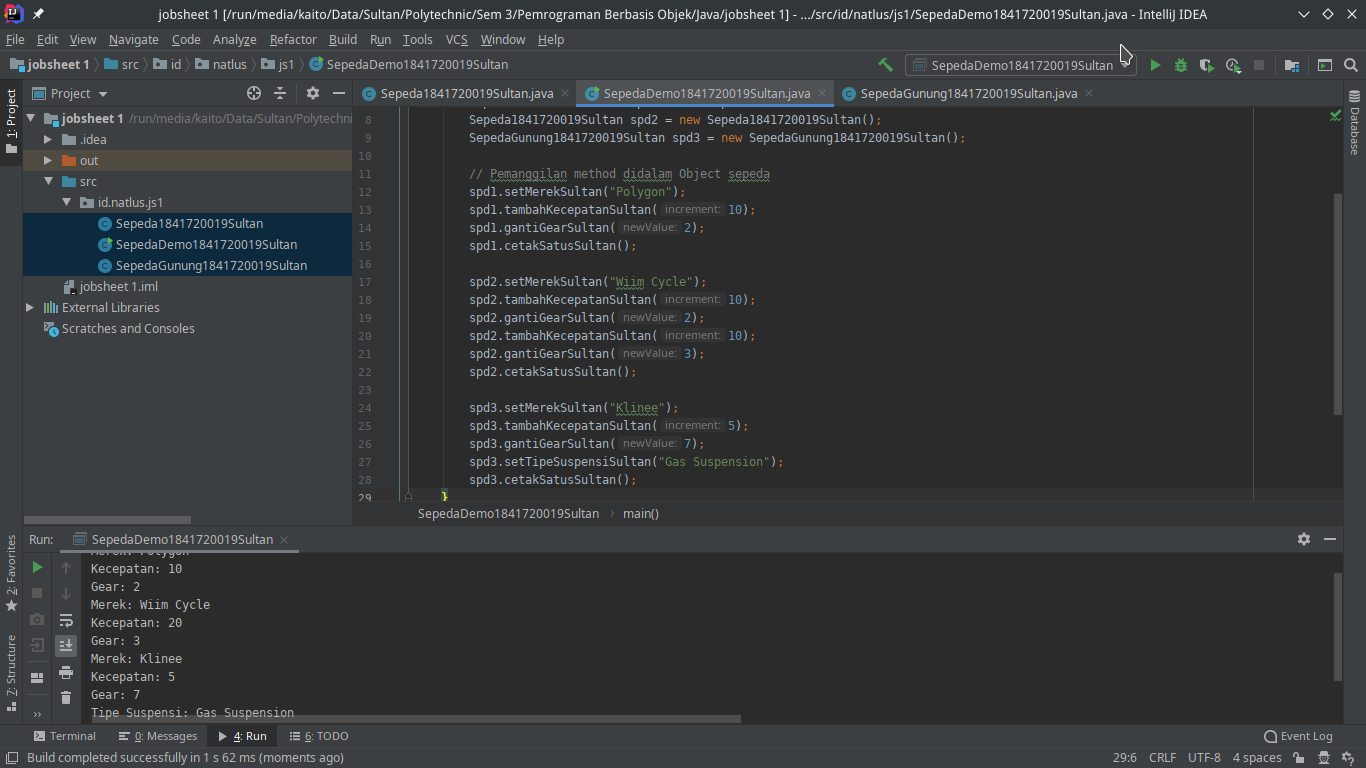
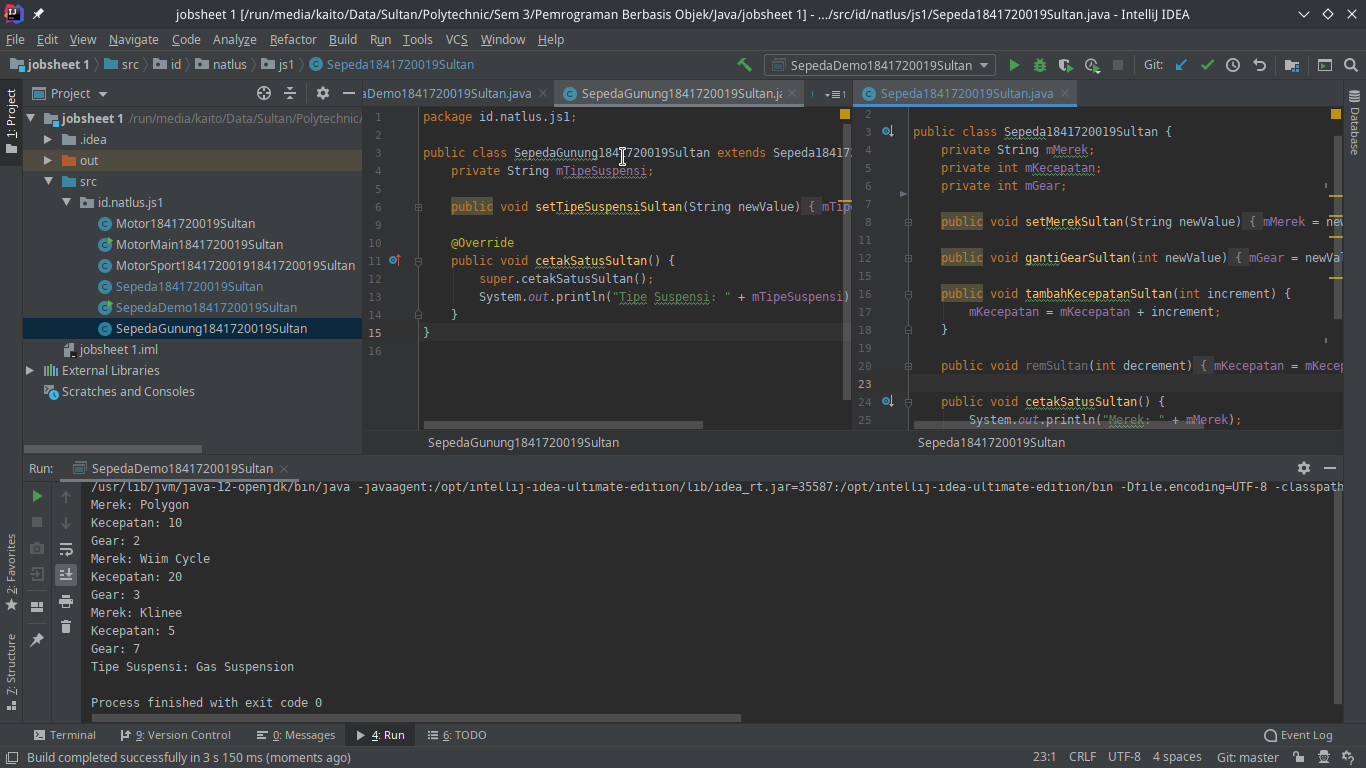
Change image, add percobaan 3

diff --git a/src/1_Pengantar_Konsep_PBO/SepedaDemo1841720019Sultan.java b/src/1_Pengantar_Konsep_PBO/SepedaDemo1841720019Sultan.java
@@ -7,6 +7,7 @@ public class SepedaDemo1841720019Sultan {
         Sepeda1841720019Sultan spd1 = new Sepeda1841720019Sultan();
         Sepeda1841720019Sultan spd2 = new Sepeda1841720019Sultan();
         SepedaGunung1841720019Sultan spd3 = new SepedaGunung1841720019Sultan();
+        SepedaGunungBalap1841720019Sultan spd4 = new SepedaGunungBalap1841720019Sultan();
 
         // Pemanggilan method didalam Object sepeda
         spd1.setMerekSultan("Polygon");
@@ -29,6 +30,16 @@ public class SepedaDemo1841720019Sultan {
         spd3.setTipeSuspensiSultan("Gas Suspension");
         spd3.setmWarna("Pink");
         spd3.cetakSatusSultan();
+        System.out.println();
+
+        spd4.setMerekSultan("Giant");
+        spd4.tambahKecepatanSultan(40);
+        spd4.gantiGearSultan(4);
+        spd4.setmWarna("Metalic Blue");
+        spd4.setTipeSuspensiSultan("Coil Suspension");
+        spd4.setmJenisBanSultan("Soft Compound");
+        spd4.setmPanjangBarSultan(750);
+        spd4.cetakSatusSultan();
     }
 
 }

diff --git a/src/1_Pengantar_Konsep_PBO/SepedaGunungBalap1841720019Sultan.java b/src/1_Pengantar_Konsep_PBO/SepedaGunungBalap1841720019Sultan.java
@@ -1,0 +1,21 @@
+package id.natlus.js1;
+
+public class SepedaGunungBalap1841720019Sultan extends SepedaGunung1841720019Sultan {
+    private String mJenisBan;
+    private float mPanjangBar;
+
+    public void setmJenisBanSultan(String mJenisBan) {
+        this.mJenisBan = mJenisBan;
+    }
+
+    public void setmPanjangBarSultan(float mPanjangBar) {
+        this.mPanjangBar = mPanjangBar;
+    }
+
+    @Override
+    public void cetakSatusSultan() {
+        super.cetakSatusSultan();
+        System.out.println("Jenis Ban: " + mJenisBan);
+        System.out.println("Panjang Bar(mm): " + mPanjangBar);
+    }
+}

diff --git a/docs/1_Pengantar_Konsep_PBO/LAPORAN#1.md b/docs/1_Pengantar_Konsep_PBO/LAPORAN#1.md
@@ -20,7 +20,7 @@ Pada percobaan 1 hanya meniru apa yang ada didalam jobsheet dan mencocokkan hasi
 `Screenshot Percobaan 1:`
 ![Screenshot percobaan 1](img/percobaan-1.png)
 
-`Kode program:`
+`Kode Program:`
 
 * [Sepeda1841720019Sultan.java](../../src/1_Pengantar_Konsep_PBO/Sepeda1841720019Sultan.java)
 * [SepedaDemo1841720019Sultan.java](../../src/1_Pengantar_Konsep_PBO/SepedaDemo1841720019Sultan.java)
@@ -40,10 +40,24 @@ Mendemokan fitur inheritance pada Java OOP dengan menambahkan syntax pada file [
 `Screenshot Percobaan 2:`
 ![contoh screenshot](img/percobaan-2.png)
 
-`Kode program:`
+`Kode Program:`
 
 * [Sepeda1841720019Sultan.java](../../src/1_Pengantar_Konsep_PBO/Sepeda1841720019Sultan.java)
 * [SepedaGunung1841720019Sultan.java](../../src/1_Pengantar_Konsep_PBO/SepedaGunung1841720019Sultan.java)
+* [SepedaDemo1841720019Sultan.java](../../src/1_Pengantar_Konsep_PBO/SepedaDemo1841720019Sultan.java)
+
+### Percobaan 3 (Tambahan)
+
+Pada percobaan 3 ini hanya tambahan saja yaitu mencoba jika ingin mengakses class parent dari parent, contohnya adalah saya membuat [SepedaGunungBalap1841720019Sultan.java](../../src/1_Pengantar_Konsep_PBO/SepedaGunungBalap1841720019Sultan.java) yang mewarisi [SepedaGunung1841720019Sultan.java](../../src/1_Pengantar_Konsep_PBO/SepedaGunung1841720019Sultan.java) dan ingin mencoba untuk mengakses [Sepeda1841720019Sultan.java](../../src/1_Pengantar_Konsep_PBO/Sepeda1841720019Sultan.java)
+
+`Screenshot:`
+![contoh screenshot](img/percobaan-3.png)
+
+`Kode Program:`
+
+* [SepedaGunungBalap1841720019Sultan.java](../../src/1_Pengantar_Konsep_PBO/SepedaGunungBalap1841720019Sultan.java)
+* [SepedaGunung1841720019Sultan.java](../../src/1_Pengantar_Konsep_PBO/SepedaGunung1841720019Sultan.java)
+* [Sepeda1841720019Sultan.java](../../src/1_Pengantar_Konsep_PBO/Sepeda1841720019Sultan.java)
 * [SepedaDemo1841720019Sultan.java](../../src/1_Pengantar_Konsep_PBO/SepedaDemo1841720019Sultan.java)
 
 ## Pertanyaan
@@ -79,7 +93,7 @@ Mendemokan fitur inheritance pada Java OOP dengan menambahkan syntax pada file [
     Pada class sepeda terdapat 3 atribut yaitu:
     * merek
     * kecepatan
-    * gear.
+    * gear
 
 5. Tambahkan atribut warna pada class Sepeda.
 
@@ -88,7 +102,7 @@ Mendemokan fitur inheritance pada Java OOP dengan menambahkan syntax pada file [
     `Screenshot Pertanyaan 5:`
     ![contoh screenshot](img/pertanyaan-5.png)
 
-    `Kode program:`
+    `Kode Program:`
 
     * [Sepeda1841720019Sultan.java](../../src/1_Pengantar_Konsep_PBO/Sepeda1841720019Sultan.java)
     * [SepedaGunung1841720019Sultan.java](../../src/1_Pengantar_Konsep_PBO/SepedaGunung1841720019Sultan.java)
@@ -107,7 +121,7 @@ Tugas ini dikarenakan diberi kebebasan memilih tema asalkan disekitar kita maka 
 ![tugas foto 1](img/tugas1.png)
 ![tugas foto 2](img/tugas2.png)
 
-`Kode program:`
+`Kode Program:`
 
 * [Motor1841720019Sultan.java](../../src/1_Pengantar_Konsep_PBO/Motor1841720019Sultan.java)
 * [MotorSport1841720019Sultan.java](../../src/1_Pengantar_Konsep_PBO/MotorSport1841720019Sultan.java)
